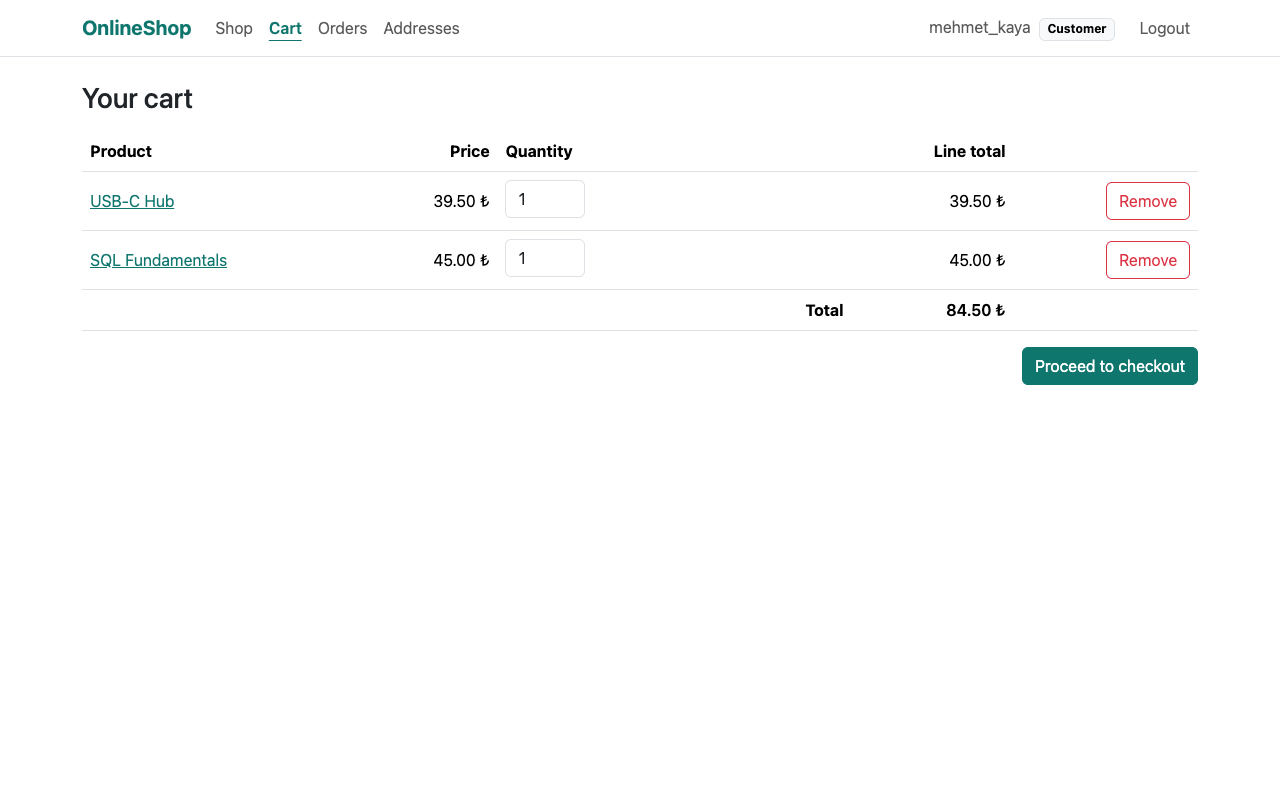
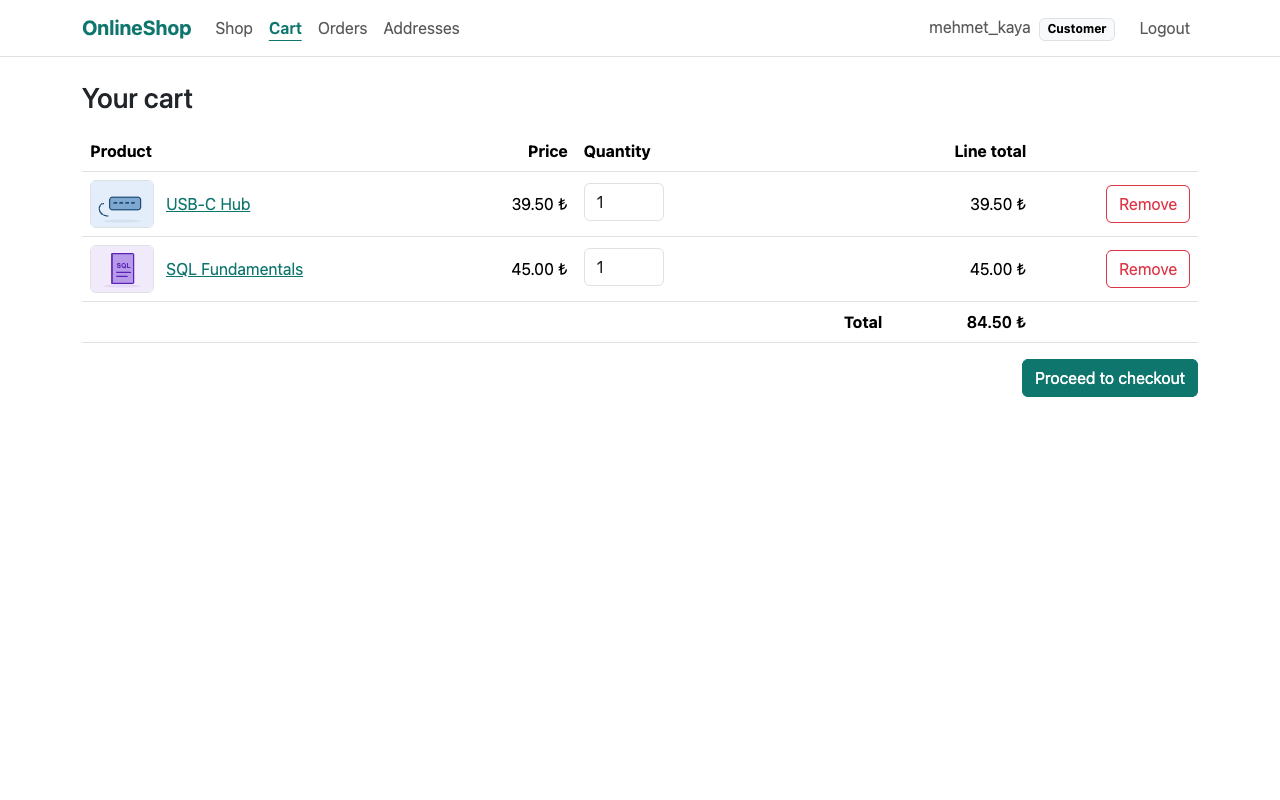
docs: retake screenshots and update class diagrams for photos, addresses and cancel
- Screenshots retaken on the clean team seed: product pictures, cart
  thumbnails, admin order page with Cancel order and 12-digit tracking
- New: 24 address form with city/district/neighborhood lists,
  25 add product with photo
- Class diagrams: overview counts (12 controllers + 4 helpers, 12 services
  + 8 helpers), seller panel with ProductImageService, admin panel with
  cancelOrder

diff --git a/docs/diagrams/class/class-1-overview.html b/docs/diagrams/class/class-1-overview.html
@@ -42,7 +42,7 @@
       <path d="M 320,92 L 400,92" fill="none" stroke="#495057" stroke-width="1" stroke-dasharray="4,3" marker-end="url(#uml-open)"/>
       <path d="M 760,132 L 840,132" fill="none" stroke="#495057" stroke-width="1" stroke-dasharray="4,3" marker-end="url(#uml-open)"/>
       <path d="M 580,224 L 580,280" fill="none" stroke="#495057" stroke-width="1" stroke-dasharray="4,3" marker-end="url(#uml-open)"/>
-      <path d="M 580,444 L 580,500" fill="none" stroke="#495057" stroke-width="1" stroke-dasharray="4,3" marker-end="url(#uml-open)"/>
+      <path d="M 580,464 L 580,500" fill="none" stroke="#495057" stroke-width="1" stroke-dasharray="4,3" marker-end="url(#uml-open)"/>
       <path d="M 760,582 L 840,582" fill="none" stroke="#495057" stroke-width="1" stroke-dasharray="4,3" marker-end="url(#uml-open)"/>
       <path d="M 580,664 L 580,720" fill="none" stroke="#495057" stroke-width="1" stroke-dasharray="4,3" marker-end="url(#uml-open)"/>
       <rect x="335.8" y="70" width="48.400000000000006" height="14" rx="2" fill="#ffffff"/>
@@ -65,7 +65,7 @@
       <text x="580.0" y="59" fill="#5c636a" font-size="10" font-family="ui-monospace, SFMono-Regular, Menlo, Consolas, monospace" text-anchor="middle" letter-spacing="0.04em">«package»</text>
       <text x="580.0" y="78" fill="#212529" font-size="14" font-weight="600" font-family="-apple-system, 'Segoe UI', Roboto, 'Helvetica Neue', Arial, sans-serif" text-anchor="middle">controller</text>
       <line x1="400" y1="92" x2="760" y2="92" stroke="rgba(33,37,41,0.18)" stroke-width="1"/>
-      <text x="414" y="113" fill="#212529" font-size="11" font-family="ui-monospace, SFMono-Regular, Menlo, Consolas, monospace">12 controllers, 3 helpers</text>
+      <text x="414" y="113" fill="#212529" font-size="11" font-family="ui-monospace, SFMono-Regular, Menlo, Consolas, monospace">12 controllers, 4 helpers</text>
       <text x="414" y="133" fill="#212529" font-size="11" font-family="ui-monospace, SFMono-Regular, Menlo, Consolas, monospace">LoginController · SignupController</text>
       <text x="414" y="153" fill="#212529" font-size="11" font-family="ui-monospace, SFMono-Regular, Menlo, Consolas, monospace">ShopController · CartController</text>
       <text x="414" y="173" fill="#212529" font-size="11" font-family="ui-monospace, SFMono-Regular, Menlo, Consolas, monospace">CheckoutController · OrderController</text>
@@ -82,18 +82,19 @@
       <text x="854" y="173" fill="#212529" font-size="11" font-family="ui-monospace, SFMono-Regular, Menlo, Consolas, monospace">seller/ (4 pages)</text>
       <text x="854" y="193" fill="#212529" font-size="11" font-family="ui-monospace, SFMono-Regular, Menlo, Consolas, monospace">admin/ (10 pages)</text>
       <text x="854" y="213" fill="#212529" font-size="11" font-family="ui-monospace, SFMono-Regular, Menlo, Consolas, monospace">fragments/ (layout, signup)</text>
-      <rect x="400" y="280" width="360" height="164" rx="6" fill="#ffffff"/>
-      <rect x="400" y="280" width="360" height="164" rx="6" fill="#f1f8f7" stroke="#0f766e" stroke-width="1"/>
+      <rect x="400" y="280" width="360" height="184" rx="6" fill="#ffffff"/>
+      <rect x="400" y="280" width="360" height="184" rx="6" fill="#f1f8f7" stroke="#0f766e" stroke-width="1"/>
       <rect x="400" y="280" width="360" height="52" rx="6" fill="#dcedeb"/>
       <rect x="400" y="324" width="360" height="8" fill="#dcedeb"/>
       <text x="580.0" y="299" fill="#0f766e" font-size="10" font-family="ui-monospace, SFMono-Regular, Menlo, Consolas, monospace" text-anchor="middle" letter-spacing="0.04em">«package» · @Transactional</text>
       <text x="580.0" y="318" fill="#212529" font-size="14" font-weight="600" font-family="-apple-system, 'Segoe UI', Roboto, 'Helvetica Neue', Arial, sans-serif" text-anchor="middle">service</text>
       <line x1="400" y1="332" x2="760" y2="332" stroke="rgba(15,118,110,0.40)" stroke-width="1"/>
-      <text x="414" y="353" fill="#212529" font-size="11" font-family="ui-monospace, SFMono-Regular, Menlo, Consolas, monospace">10 services, 8 helper classes</text>
+      <text x="414" y="353" fill="#212529" font-size="11" font-family="ui-monospace, SFMono-Regular, Menlo, Consolas, monospace">12 services, 8 helper classes</text>
       <text x="414" y="373" fill="#212529" font-size="11" font-family="ui-monospace, SFMono-Regular, Menlo, Consolas, monospace">AuthService · SignupService · PasswordService</text>
       <text x="414" y="393" fill="#212529" font-size="11" font-family="ui-monospace, SFMono-Regular, Menlo, Consolas, monospace">CartService · OrderService · AddressService</text>
-      <text x="414" y="413" fill="#212529" font-size="11" font-family="ui-monospace, SFMono-Regular, Menlo, Consolas, monospace">ReviewService · ReturnService</text>
-      <text x="414" y="433" fill="#212529" font-size="11" font-family="ui-monospace, SFMono-Regular, Menlo, Consolas, monospace">SellerProductService · AdminService</text>
+      <text x="414" y="413" fill="#212529" font-size="11" font-family="ui-monospace, SFMono-Regular, Menlo, Consolas, monospace">ReviewService · ReturnService · AdminService</text>
+      <text x="414" y="433" fill="#212529" font-size="11" font-family="ui-monospace, SFMono-Regular, Menlo, Consolas, monospace">SellerProductService · ProductImageService</text>
+      <text x="414" y="453" fill="#212529" font-size="11" font-family="ui-monospace, SFMono-Regular, Menlo, Consolas, monospace">TurkeyAddressService</text>
       <rect x="400" y="500" width="360" height="164" rx="6" fill="#ffffff"/>
       <rect x="400" y="500" width="360" height="164" rx="6" fill="#ffffff" stroke="#212529" stroke-width="1"/>
       <text x="580.0" y="519" fill="#5c636a" font-size="10" font-family="ui-monospace, SFMono-Regular, Menlo, Consolas, monospace" text-anchor="middle" letter-spacing="0.04em">«package»</text>

diff --git a/docs/diagrams/class/class-4-seller.html b/docs/diagrams/class/class-4-seller.html
@@ -39,23 +39,24 @@
         </marker>
       </defs>
       <rect width="100%" height="100%" fill="#ffffff"/>
-      <path d="M 620,204 L 620,268" fill="none" stroke="#495057" stroke-width="1" stroke-dasharray="4,3" marker-end="url(#uml-open)"/>
+      <path d="M 620.0,224 L 620.0,268" fill="none" stroke="#495057" stroke-width="1" stroke-dasharray="4,3" marker-end="url(#uml-open)"/>
       <path d="M 440,96 L 228,96 Q 220,96 220,104 L 220,268" fill="none" stroke="#495057" stroke-width="1" stroke-dasharray="4,3" marker-end="url(#uml-open)"/>
       <path d="M 440,152 L 428,152 Q 420,152 420,160 L 420,544 Q 420,552 428,552 L 440,552" fill="none" stroke="#495057" stroke-width="1" stroke-dasharray="4,3" marker-end="url(#uml-open)"/>
       <path d="M 620.0,392 L 620.0,476" fill="none" stroke="#495057" stroke-width="1" stroke-dasharray="4,3" marker-end="url(#uml-open)"/>
       <path d="M 800,324 L 840,324" fill="none" stroke="#495057" stroke-width="1" stroke-dasharray="4,3" marker-end="url(#uml-open)"/>
       <path d="M 800,552 L 840,552" fill="none" stroke="#495057" stroke-width="1" stroke-dasharray="4,3" marker-end="url(#uml-open)"/>
       
-      <rect x="440" y="40" width="360" height="164" rx="6" fill="#ffffff"/>
-      <rect x="440" y="40" width="360" height="164" rx="6" fill="#ffffff" stroke="#212529" stroke-width="1"/>
+      <rect x="440" y="40" width="360" height="184" rx="6" fill="#ffffff"/>
+      <rect x="440" y="40" width="360" height="184" rx="6" fill="#ffffff" stroke="#212529" stroke-width="1"/>
       <text x="620.0" y="65" fill="#212529" font-size="14" font-weight="600" font-family="-apple-system, 'Segoe UI', Roboto, 'Helvetica Neue', Arial, sans-serif" text-anchor="middle">SellerController</text>
       <line x1="440" y1="80" x2="800" y2="80" stroke="rgba(33,37,41,0.18)" stroke-width="1"/>
       <text x="454" y="101" fill="#212529" font-size="11" font-family="ui-monospace, SFMono-Regular, Menlo, Consolas, monospace">- sellerProductService: SellerProductService</text>
-      <line x1="440" y1="112" x2="800" y2="112" stroke="rgba(33,37,41,0.18)" stroke-width="1"/>
-      <text x="454" y="133" fill="#212529" font-size="11" font-family="ui-monospace, SFMono-Regular, Menlo, Consolas, monospace">+ dashboard(user, model): String</text>
-      <text x="454" y="153" fill="#212529" font-size="11" font-family="ui-monospace, SFMono-Regular, Menlo, Consolas, monospace">+ addProduct(user, form, model): String</text>
-      <text x="454" y="173" fill="#212529" font-size="11" font-family="ui-monospace, SFMono-Regular, Menlo, Consolas, monospace">+ updateProduct(user, id, form): String</text>
-      <text x="454" y="193" fill="#212529" font-size="11" font-family="ui-monospace, SFMono-Regular, Menlo, Consolas, monospace">+ orders(user, model): String</text>
+      <text x="454" y="121" fill="#212529" font-size="11" font-family="ui-monospace, SFMono-Regular, Menlo, Consolas, monospace">- productImages: ProductImageService</text>
+      <line x1="440" y1="132" x2="800" y2="132" stroke="rgba(33,37,41,0.18)" stroke-width="1"/>
+      <text x="454" y="153" fill="#212529" font-size="11" font-family="ui-monospace, SFMono-Regular, Menlo, Consolas, monospace">+ dashboard(user, model): String</text>
+      <text x="454" y="173" fill="#212529" font-size="11" font-family="ui-monospace, SFMono-Regular, Menlo, Consolas, monospace">+ addProduct(user, form, photo, model): String</text>
+      <text x="454" y="193" fill="#212529" font-size="11" font-family="ui-monospace, SFMono-Regular, Menlo, Consolas, monospace">+ updateProduct(user, id, form): String</text>
+      <text x="454" y="213" fill="#212529" font-size="11" font-family="ui-monospace, SFMono-Regular, Menlo, Consolas, monospace">+ orders(user, model): String</text>
       <rect x="40" y="268" width="360" height="92" rx="6" fill="#ffffff"/>
       <rect x="40" y="268" width="360" height="92" rx="6" fill="#ffffff" stroke="#212529" stroke-width="1"/>
       <text x="220.0" y="293" fill="#212529" font-size="14" font-weight="600" font-family="-apple-system, 'Segoe UI', Roboto, 'Helvetica Neue', Arial, sans-serif" text-anchor="middle">CategoryRepository</text>
@@ -69,7 +70,7 @@
       <text x="620.0" y="287" fill="#0f766e" font-size="10" font-family="ui-monospace, SFMono-Regular, Menlo, Consolas, monospace" text-anchor="middle" letter-spacing="0.04em">«service» · @Transactional</text>
       <text x="620.0" y="306" fill="#212529" font-size="14" font-weight="600" font-family="-apple-system, 'Segoe UI', Roboto, 'Helvetica Neue', Arial, sans-serif" text-anchor="middle">SellerProductService</text>
       <line x1="440" y1="320" x2="800" y2="320" stroke="rgba(15,118,110,0.40)" stroke-width="1"/>
-      <text x="454" y="341" fill="#212529" font-size="11" font-family="ui-monospace, SFMono-Regular, Menlo, Consolas, monospace">+ addProduct(sellerId, form): void</text>
+      <text x="454" y="341" fill="#212529" font-size="11" font-family="ui-monospace, SFMono-Regular, Menlo, Consolas, monospace">+ addProduct(sellerId, form): int</text>
       <text x="454" y="361" fill="#212529" font-size="11" font-family="ui-monospace, SFMono-Regular, Menlo, Consolas, monospace">+ updateProduct(sellerId, productId, form): void</text>
       <text x="454" y="381" fill="#212529" font-size="11" font-family="ui-monospace, SFMono-Regular, Menlo, Consolas, monospace">- parsePrice(value: String): BigDecimal</text>
       <rect x="840" y="268" width="360" height="152" rx="6" fill="#ffffff"/>

diff --git a/docs/diagrams/class/class-5-admin.html b/docs/diagrams/class/class-5-admin.html
@@ -51,7 +51,7 @@
       <text x="620.0" y="65" fill="#212529" font-size="14" font-weight="600" font-family="-apple-system, 'Segoe UI', Roboto, 'Helvetica Neue', Arial, sans-serif" text-anchor="middle">AdminOrderController</text>
       <line x1="440" y1="80" x2="800" y2="80" stroke="rgba(33,37,41,0.18)" stroke-width="1"/>
       <text x="454" y="101" fill="#212529" font-size="11" font-family="ui-monospace, SFMono-Regular, Menlo, Consolas, monospace">+ order(id, model): String</text>
-      <text x="454" y="121" fill="#212529" font-size="11" font-family="ui-monospace, SFMono-Regular, Menlo, Consolas, monospace">+ changeStatus(id, status): String</text>
+      <text x="454" y="121" fill="#212529" font-size="11" font-family="ui-monospace, SFMono-Regular, Menlo, Consolas, monospace">+ cancelOrder(id): String</text>
       <text x="454" y="141" fill="#212529" font-size="11" font-family="ui-monospace, SFMono-Regular, Menlo, Consolas, monospace">+ createShipment(id, companyId, no): String</text>
       <text x="454" y="161" fill="#212529" font-size="11" font-family="ui-monospace, SFMono-Regular, Menlo, Consolas, monospace">+ markDelivered(id): String</text>
       <text x="454" y="181" fill="#212529" font-size="11" font-family="ui-monospace, SFMono-Regular, Menlo, Consolas, monospace">+ rejectReturn(id, rejectReason): String</text>
@@ -71,7 +71,7 @@
       <text x="620.0" y="275" fill="#0f766e" font-size="10" font-family="ui-monospace, SFMono-Regular, Menlo, Consolas, monospace" text-anchor="middle" letter-spacing="0.04em">«service» · @Transactional</text>
       <text x="620.0" y="294" fill="#212529" font-size="14" font-weight="600" font-family="-apple-system, 'Segoe UI', Roboto, 'Helvetica Neue', Arial, sans-serif" text-anchor="middle">AdminService</text>
       <line x1="440" y1="308" x2="800" y2="308" stroke="rgba(15,118,110,0.40)" stroke-width="1"/>
-      <text x="454" y="329" fill="#212529" font-size="11" font-family="ui-monospace, SFMono-Regular, Menlo, Consolas, monospace">+ changeOrderStatus(orderId, status): void</text>
+      <text x="454" y="329" fill="#212529" font-size="11" font-family="ui-monospace, SFMono-Regular, Menlo, Consolas, monospace">+ cancelOrder(orderId): void</text>
       <text x="454" y="349" fill="#212529" font-size="11" font-family="ui-monospace, SFMono-Regular, Menlo, Consolas, monospace">+ createShipment(orderId, companyId, no): void</text>
       <text x="454" y="369" fill="#212529" font-size="11" font-family="ui-monospace, SFMono-Regular, Menlo, Consolas, monospace">+ markDelivered(orderId): void</text>
       <text x="454" y="389" fill="#212529" font-size="11" font-family="ui-monospace, SFMono-Regular, Menlo, Consolas, monospace">+ refundReturn(returnId): void</text>
